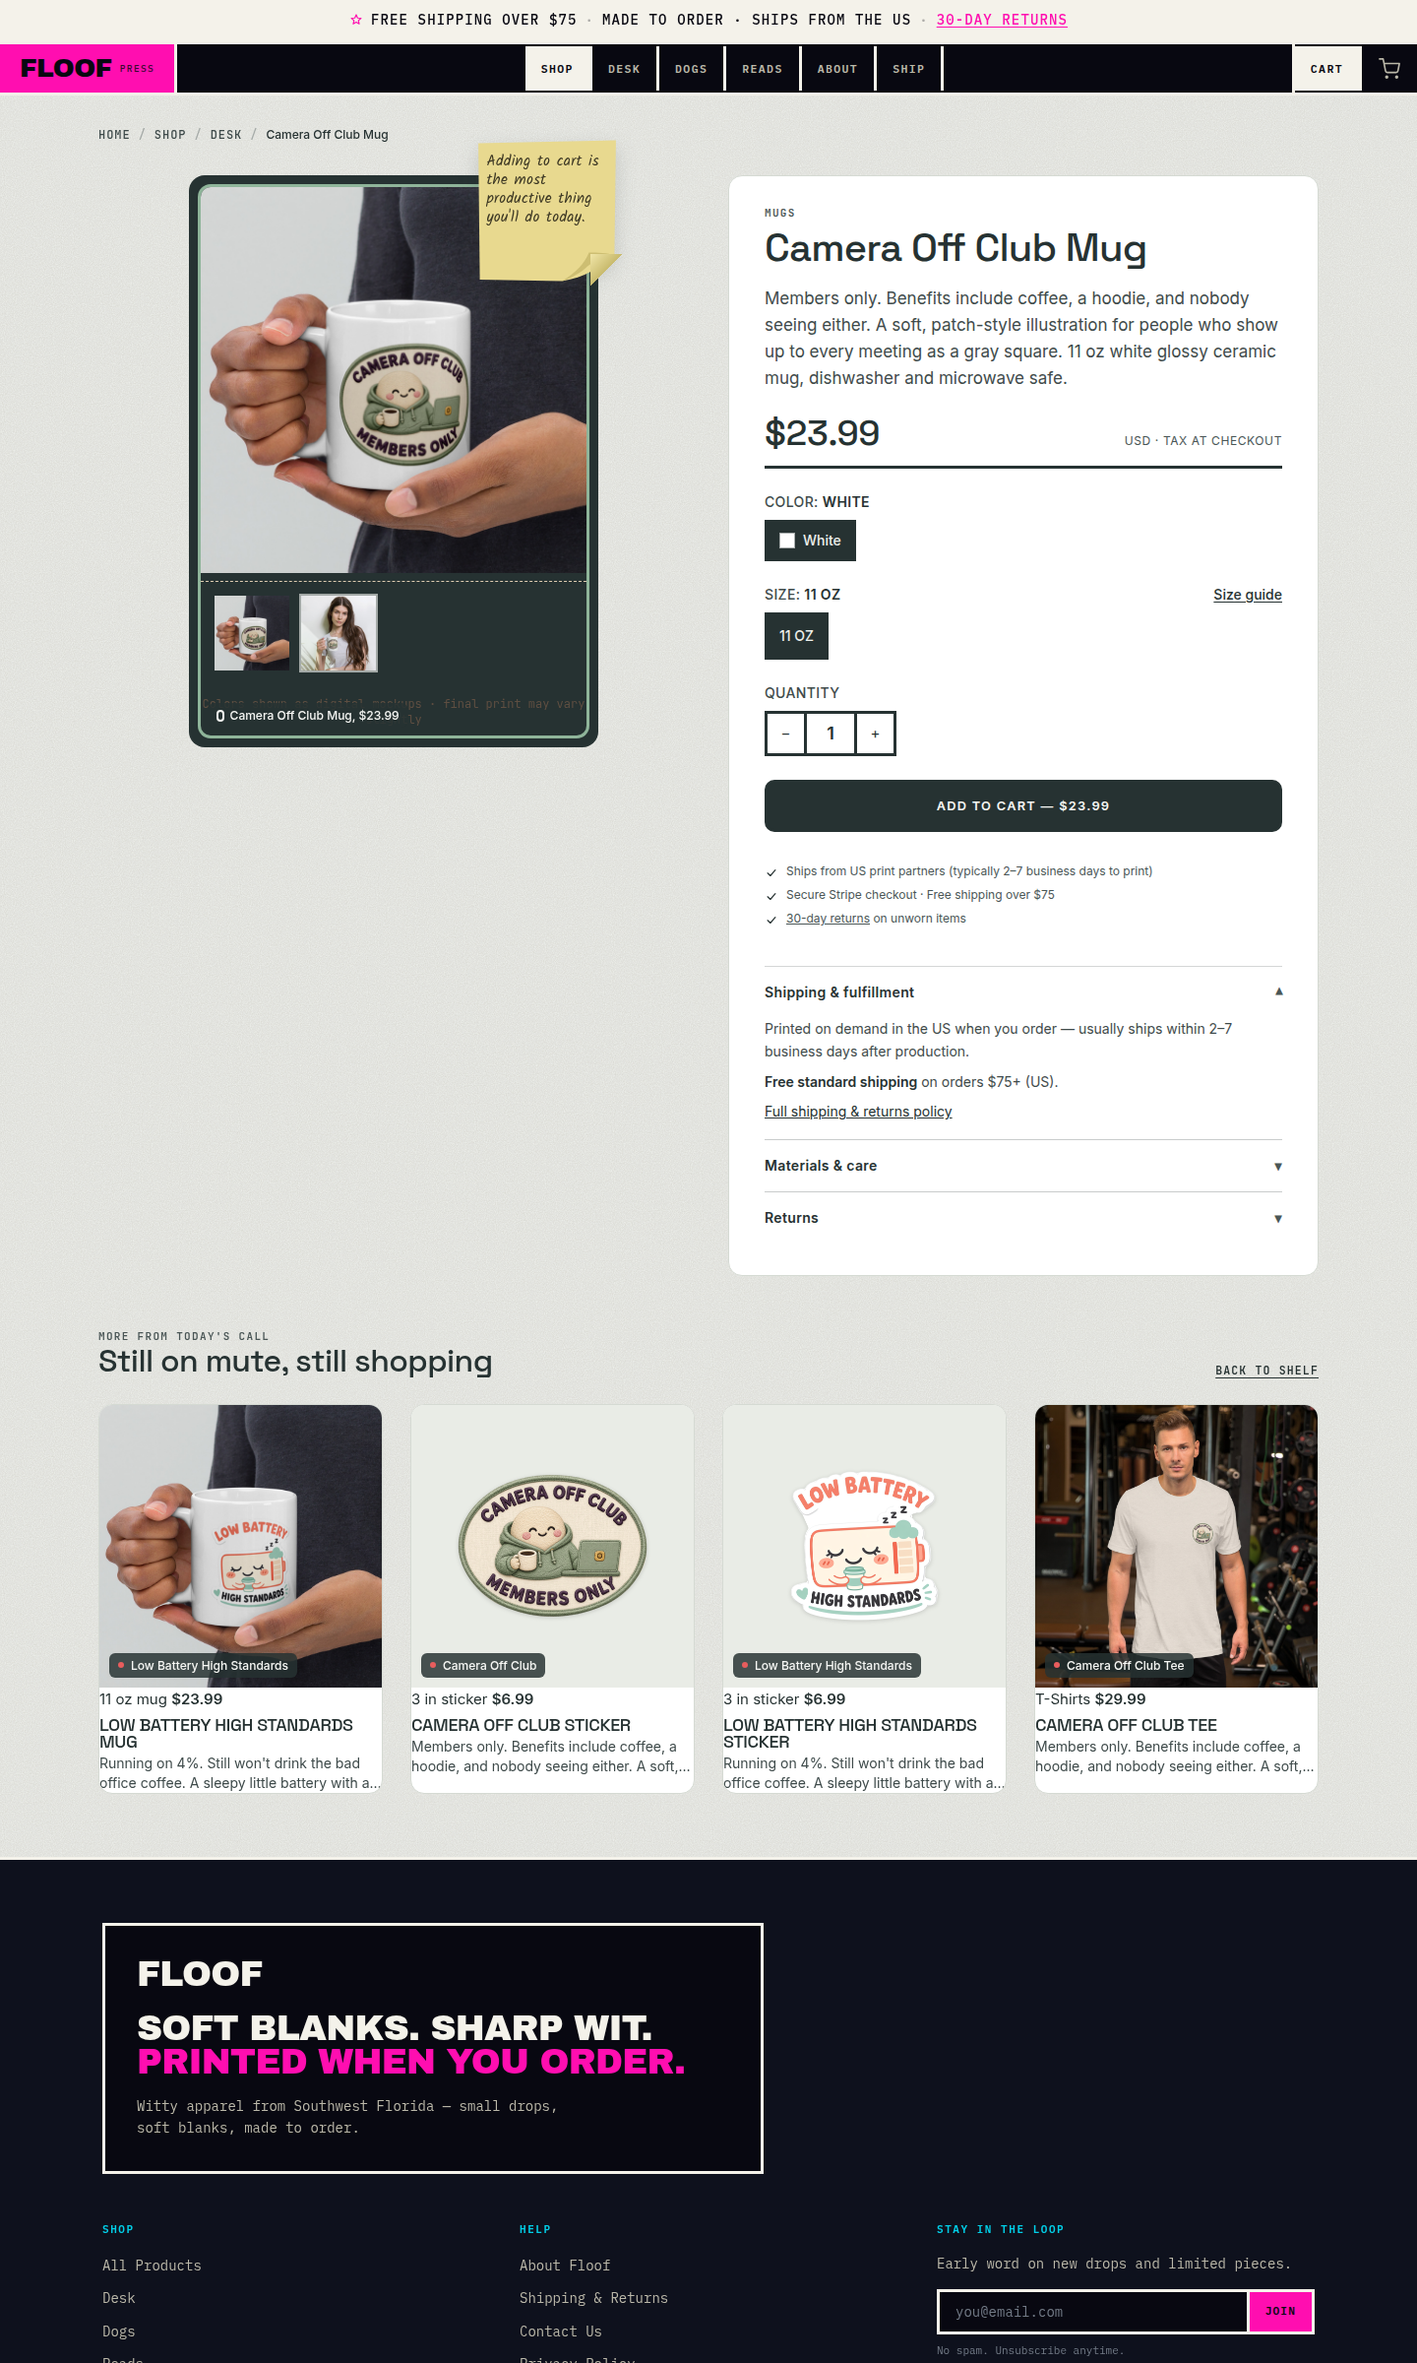
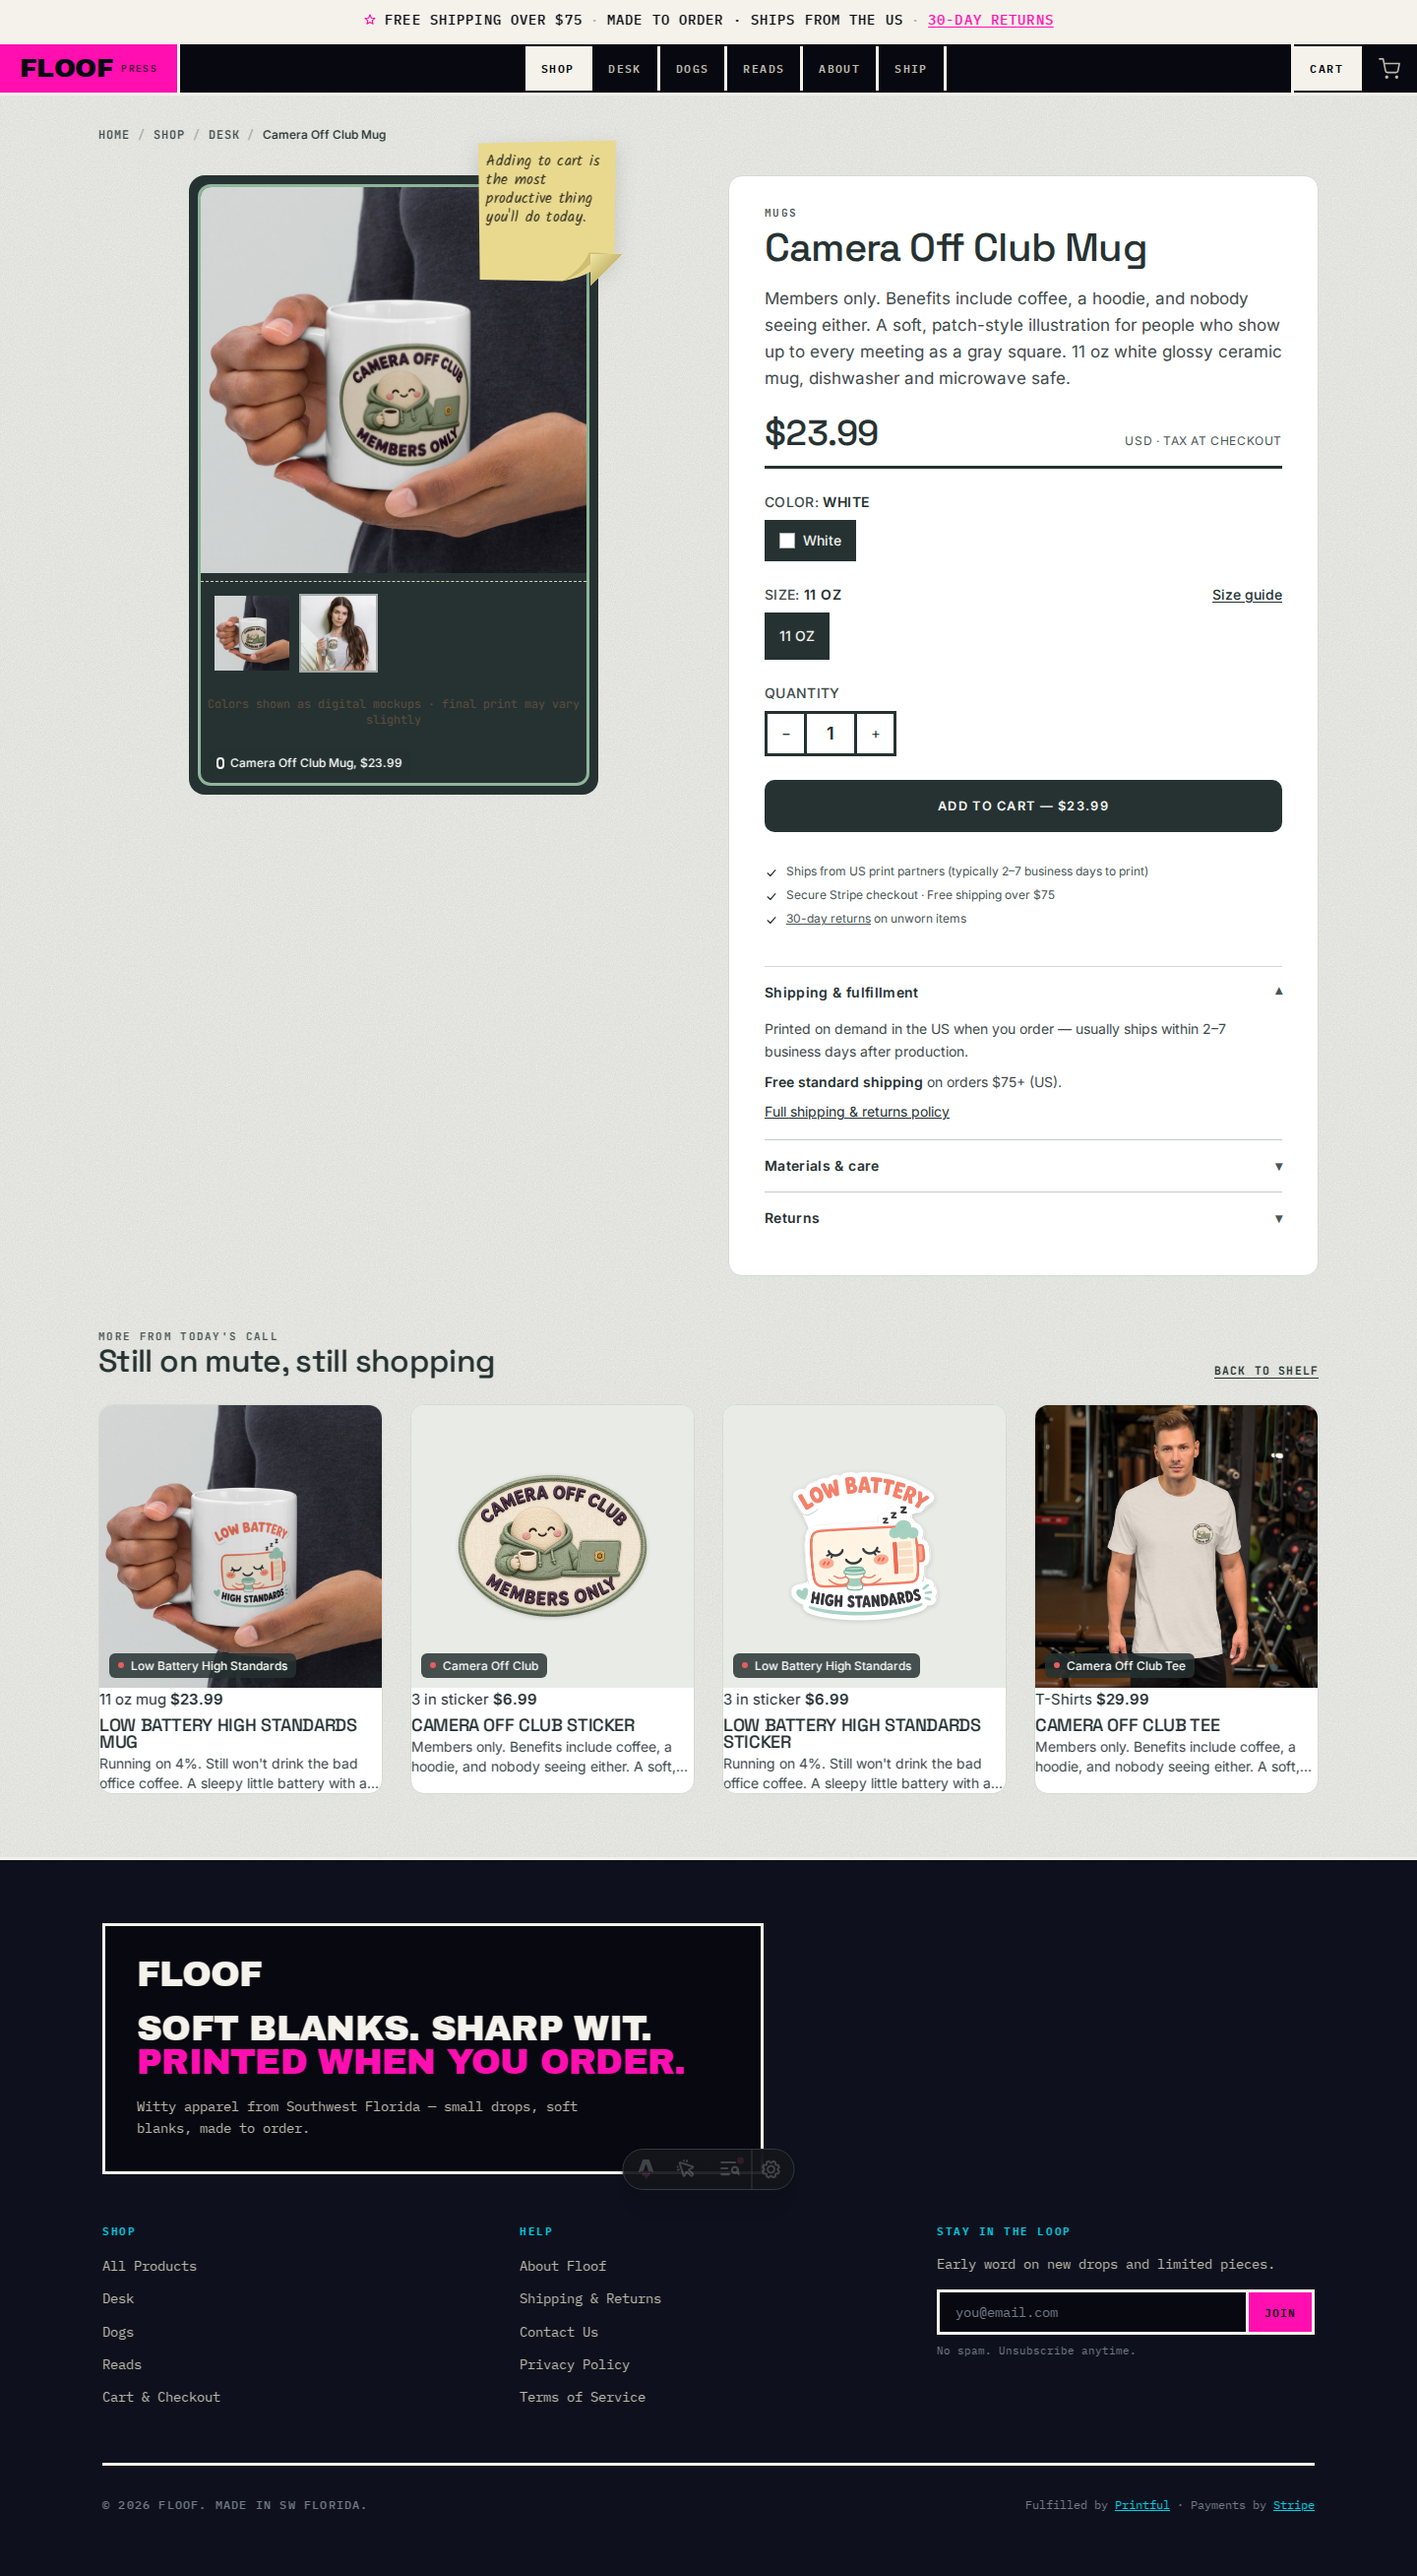
Polish themed PDP: desk caption spacing, dogs titles, reads shelf count (#9)

diff --git a/src/lib/productPageTheme.ts b/src/lib/productPageTheme.ts
@@ -85,20 +85,27 @@ export function productPageThemeBundle(themeId: CollectionThemeId) {
   return getCollectionTheme(themeId)
 }
 
+function relatedShelfLimit(themeId: CollectionThemeId): number {
+  // Reads collection grid is 3 columns on desktop — avoid a lone orphan card.
+  if (themeId === "reads") return 3
+  return 4
+}
+
 export function relatedProductsForShelf(
   all: FloofProduct[],
   product: FloofProduct,
   themeId: CollectionThemeId,
   collectionHandle: string | null
 ): FloofProduct[] {
+  const limit = relatedShelfLimit(themeId)
   const others = all.filter((p) => p.slug !== product.slug)
   if (themeId !== "floof" && collectionHandle) {
     const sameCollection = others.filter(
       (p) => p.collectionHandle === collectionHandle
     )
-    if (sameCollection.length >= 2) return sameCollection.slice(0, 4)
+    if (sameCollection.length >= 2) return sameCollection.slice(0, limit)
   }
   const sameCategory = others.filter((p) => p.category === product.category)
-  if (sameCategory.length >= 2) return sameCategory.slice(0, 4)
-  return others.slice(0, 4)
+  if (sameCategory.length >= 2) return sameCategory.slice(0, limit)
+  return others.slice(0, limit)
 }

diff --git a/src/styles/collection-product-page.css b/src/styles/collection-product-page.css
@@ -264,6 +264,11 @@
   min-height: 18rem;
 }
 
+/* Keep mockup footnote above the call-window name bar */
+.product-pdp-call__tile .product-pdp-gallery--bare {
+  padding-bottom: 3rem;
+}
+
 .product-pdp-call__who {
   position: absolute;
   left: 0.5rem;
@@ -395,6 +400,16 @@
   text-underline-offset: 3px;
 }
 
+.product-pdp-theme[data-collection-theme="dogs"] .collection-product-card--dogs h3 {
+  text-transform: none;
+  word-break: normal;
+  overflow-wrap: normal;
+  display: -webkit-box;
+  -webkit-box-orient: vertical;
+  -webkit-line-clamp: 2;
+  overflow: hidden;
+}
+
 @media (max-width: 760px) {
   .product-pdp-call__sticky {
     right: 0;
@@ -402,6 +417,10 @@
     width: 7.5rem;
     height: 7.5rem;
     font-size: 0.8rem;
+  }
+
+  .product-pdp-call__tile .product-pdp-gallery--bare {
+    padding-bottom: 3.25rem;
   }
 
   .product-pdp-plate__pocket {
